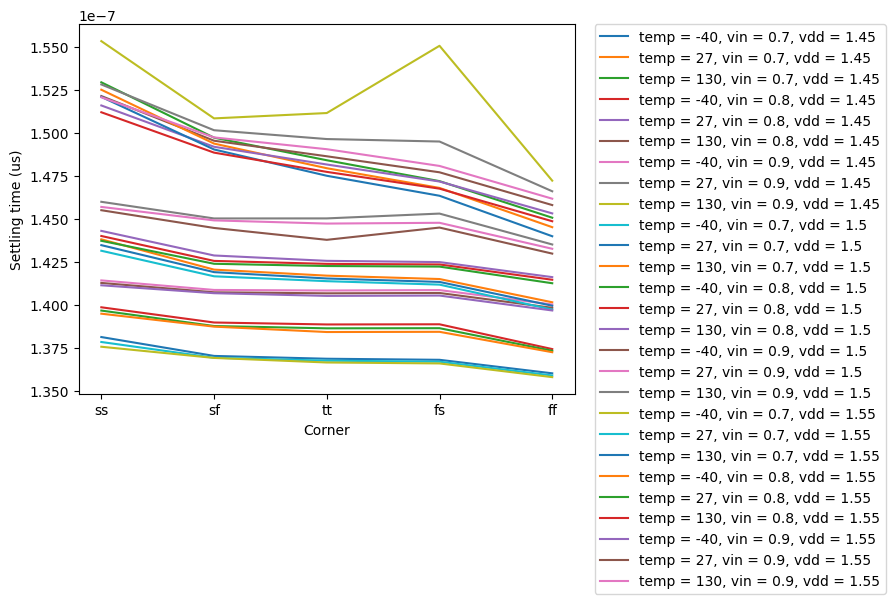
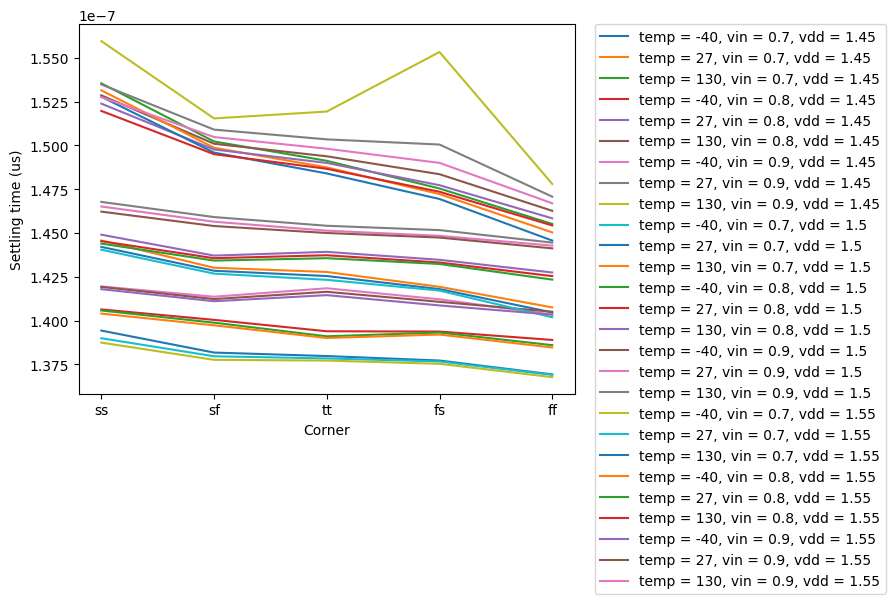
Updated report on 5T-OTA (using gear method)

diff --git a/cace/_docs/ota-5t_schematic.md b/cace/_docs/ota-5t_schematic.md
@@ -8,7 +8,7 @@
 | Output voltage ratio | ngspice              | gain                 |        0.97 V/V |  0.987 V/V |          any |  1.000 V/V |     1.03 V/V |  1.007 V/V |   Pass ✅    |
 | Bandwidth            | ngspice              | bw                   |         10e6 Hz | 15550400.000 Hz |          any | 26912100.000 Hz |          any | 34052200.000 Hz |   Pass ✅    |
 | Output noise         | ngspice              | noise                |             any |   0.308 mV |          any |   0.371 mV |         1 mV |   0.454 mV |   Pass ✅    |
-| Settling time        | ngspice              | tsettle              |             any |   0.136 us |          any |   0.143 us |        10 us |   0.155 us |   Pass ✅    |
+| Settling time        | ngspice              | tsettle              |             any |   0.137 us |          any |   0.144 us |        10 us |   0.156 us |   Pass ✅    |
 
 
 ## Plots {.unnumbered .unlisted}
